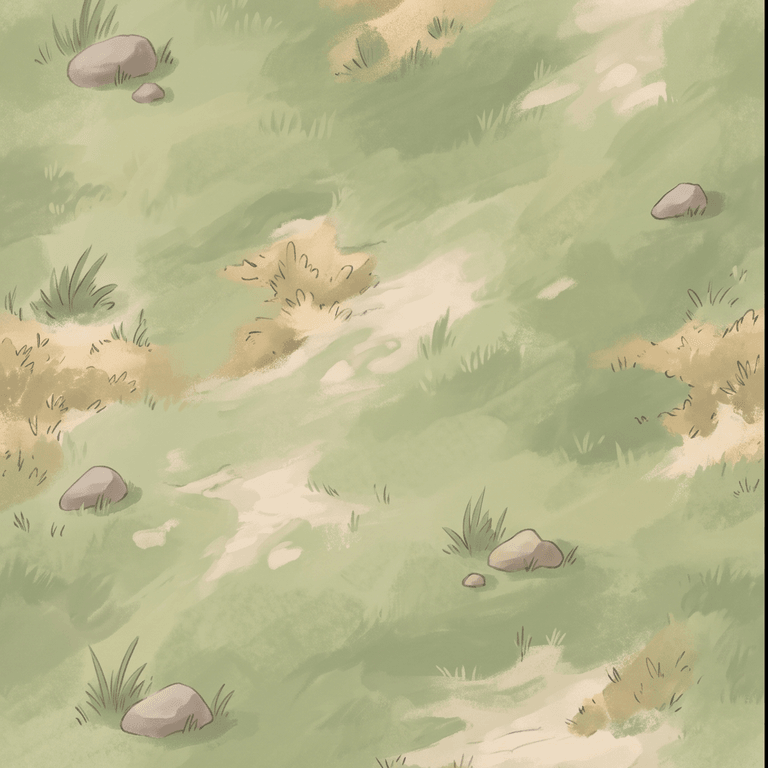
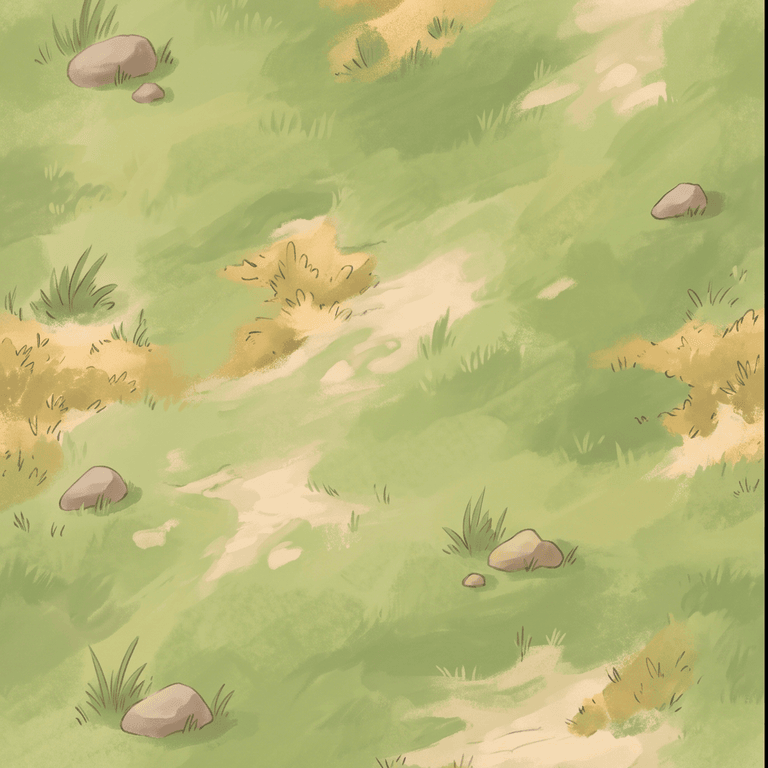
Sea: the islands get their green back
Same fault as the water, in a different file. The island greens sit at
23 to 31 per cent saturation — the crown, the grass rim, all of it — so
the land was olive-grey beside a sea that had just been given its colour
back, which is why it stood out as the dull thing.

Two places had to move, and fixing only one would have half-worked.

THE PAINTED GRADIENT: hue held, lightness barely touched, saturation
lifted toward 46 per cent. The main crown green #6f8a4e becomes #7a9c44.
The sand goes a shade warmer with it — left alone it reads grey once
there is a livelier green next to it, which is a thing about the eye
rather than about the sand.

AND THE TURF TEXTURE, which is the half that would have swallowed the
other. It is painted with `source-atop` at 0.42, so it does not tint the
gradient underneath — it REPLACES nearly half of it. At 26.8 per cent
mean saturation it was quietly pulling every lifted green back toward
the dull one. Re-graded to 37.3 per cent, baked into the PNG rather than
filtered at runtime: a colour matrix on the island layer would be a
full-screen pass every frame, and this is free.

The rock texture is left at 17.8 per cent. Rock is supposed to be grey.

diff --git a/web/app/(app)/sea/islandArt.ts b/web/app/(app)/sea/islandArt.ts
@@ -267,11 +267,11 @@ export function bakeIsland(id: string, d: number, locked: boolean, pad: number):
     lg.fillStyle = fill
     lg.fill()
   }
-  face(10, grad165(lg, 0.74, [[0, '#b9a077'], [0.55, '#9c8259'], [1, '#7d6743']]))
-  face(0.97, grad165(lg, 0.72, [[0, '#cbb590'], [1, '#b89c72']]))
-  face(0.90, grad165(lg, 0.67, [[0, '#d8c49f'], [1, '#c2a97e']]))
-  face(0.81, grad165(lg, 0.60, [[0, '#9aa269'], [1, '#7d8850']]))
-  face(0.70, grad165(lg, 0.52, [[0, '#6f8a4e'], [0.62, '#55703c'], [1, '#466032']]))
+  face(10, grad165(lg, 0.74, [[0, '#c0a276'], [0.55, '#a78452'], [1, '#85693f']]))
+  face(0.97, grad165(lg, 0.72, [[0, '#d0b792'], [1, '#bf9e71']]))
+  face(0.90, grad165(lg, 0.67, [[0, '#dbc6a4'], [1, '#c7ab7f']]))
+  face(0.81, grad165(lg, 0.60, [[0, '#afb65f'], [1, '#909b45']]))
+  face(0.70, grad165(lg, 0.52, [[0, '#7a9c44'], [0.62, '#5c7d36'], [1, '#4c6b2d']]))
 
   // TURF OVER ALL FIVE BANDS AT ONCE, inside the face clip that is still open,
   // so the beach reads as sand and the middle as grass without either needing
